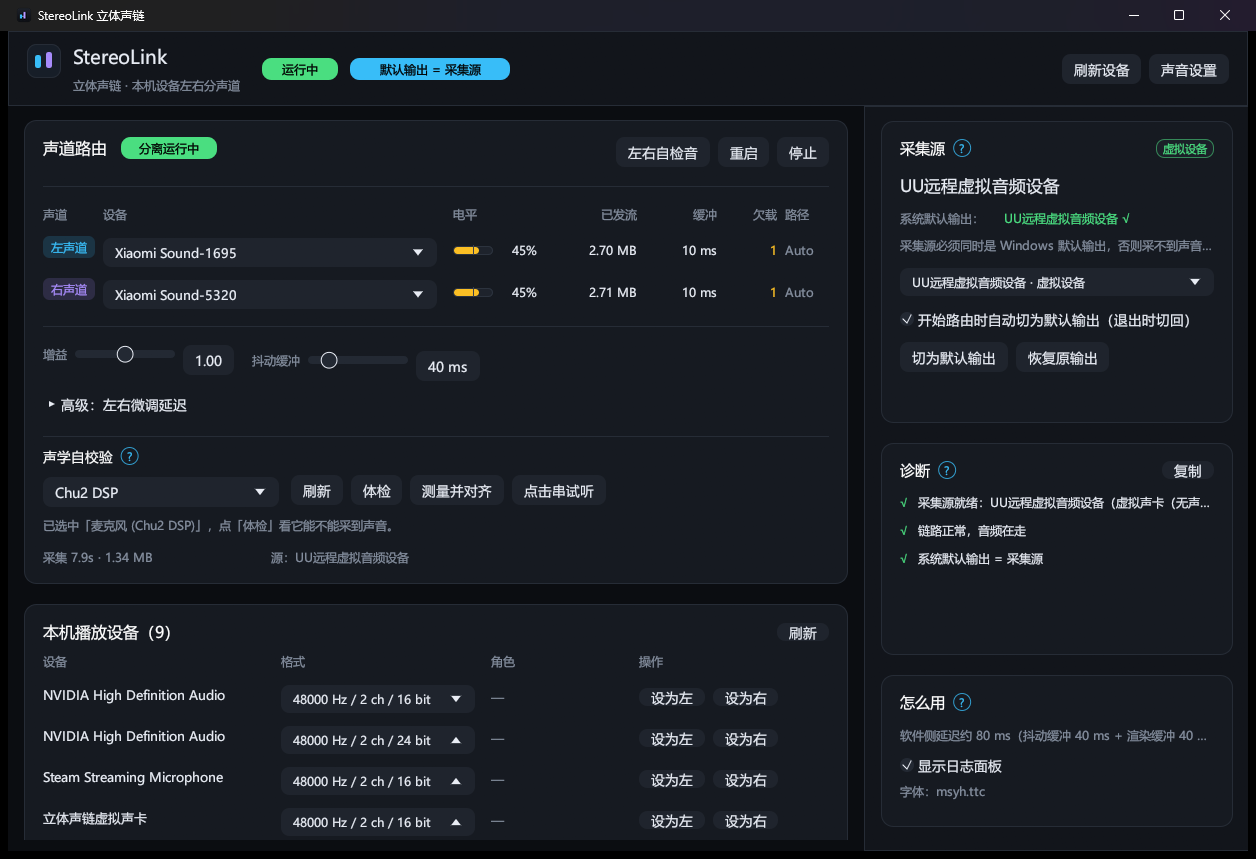
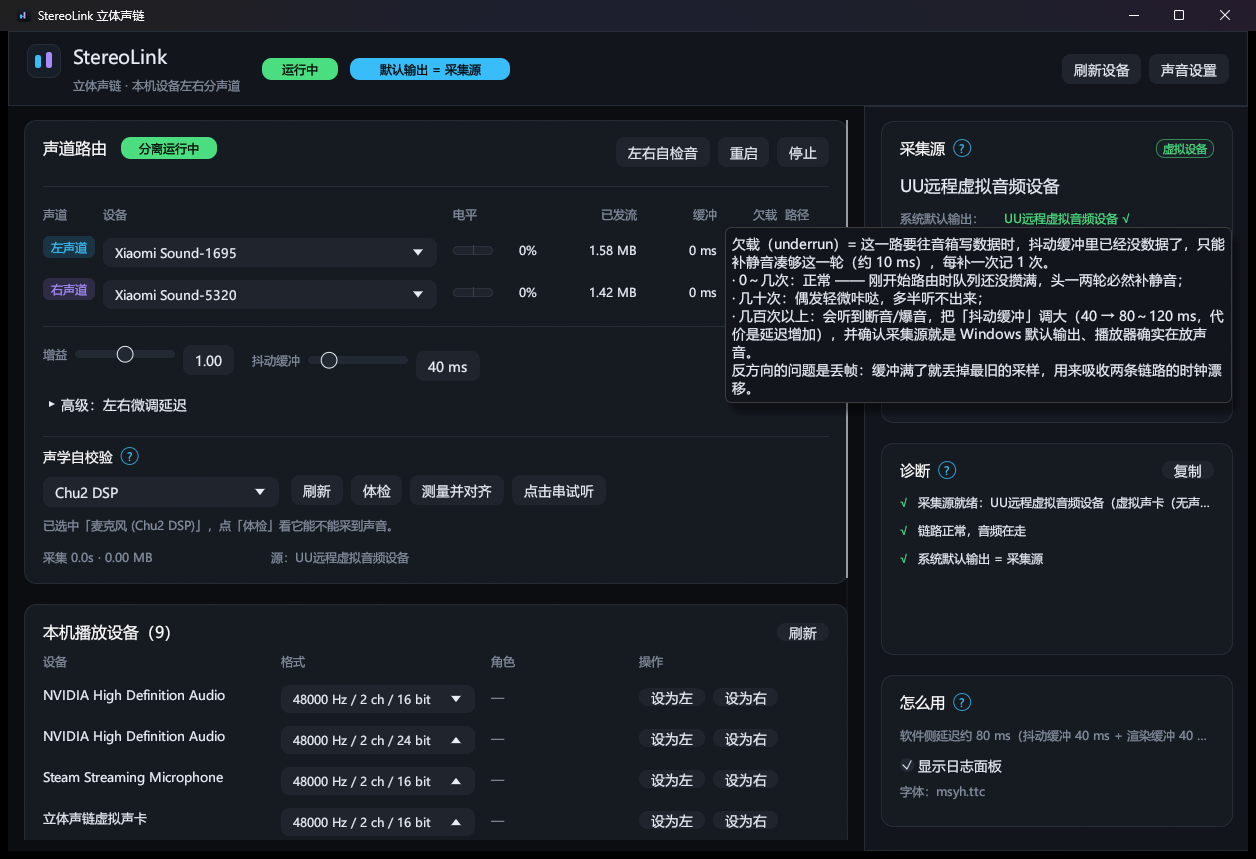
feat(gui): 「欠载」表头与数值加悬停说明（定义、0~几次正常、几百次要调大抖动缓冲、与丢帧的区别）

Changed region(s): [[0.5589, 0.2724, 0.9936, 0.454], [0.4658, 0.3329, 0.4968, 0.3632], [0.4658, 0.2724, 0.4968, 0.3027]]

diff --git a/crates/stereo-link/src/app.rs b/crates/stereo-link/src/app.rs
@@ -184,6 +184,16 @@ const ROUTE_ROW_H: f32 = 28.0;
 /// 诊断卡固定槽位数：条数变化不改变卡片高度。
 const DIAG_SLOTS: usize = 5;
 
+/// 「欠载」的悬停说明：表头与数据行共用同一段话。
+const UNDERRUN_HELP: &str = "\
+欠载（underrun）= 这一路要往音箱写数据时，抖动缓冲里已经没数据了，\
+只能补静音凑够这一轮（约 10 ms），每补一次记 1 次。\n\
+· 0～几次：正常 —— 刚开始路由时队列还没攒满，头一两轮必然补静音；\n\
+· 几十次：偶发轻微咔哒，多半听不出来；\n\
+· 几百次以上：会听到断音/爆音，把「抖动缓冲」调大（40 → 80～120 ms，代价是延迟增加），\
+并确认采集源就是 Windows 默认输出、播放器确实在放声音。\n\
+反方向的问题是丢帧：缓冲满了就丢掉最旧的采样，用来吸收两条链路的时钟漂移。";
+
 /// 设备列吃掉剩余宽度：同一窗口尺寸下恒定，不随数值变化。
 fn route_device_width(available: f32, spacing: f32) -> f32 {
     let fixed = ROUTE_COL_CH
@@ -1855,7 +1865,8 @@ impl StereoLinkApp {
                     text_cell(ui, ROUTE_COL_LEVEL, 18.0, "电平", header_font.clone(), MUTED, false);
                     text_cell(ui, ROUTE_COL_SENT, 18.0, "已发流", header_font.clone(), MUTED, true);
                     text_cell(ui, ROUTE_COL_BUF, 18.0, "缓冲", header_font.clone(), MUTED, true);
-                    text_cell(ui, ROUTE_COL_UNDER, 18.0, "欠载", header_font.clone(), MUTED, true);
+                    text_cell(ui, ROUTE_COL_UNDER, 18.0, "欠载", header_font.clone(), MUTED, true)
+                        .on_hover_text(UNDERRUN_HELP);
                     text_cell(ui, ROUTE_COL_PATH, 18.0, "路径", header_font, MUTED, false);
                 });
             }
@@ -2206,6 +2217,18 @@ impl StereoLinkApp {
                 .as_ref()
                 .map(|route| format!("{:>4}", route.underruns))
                 .unwrap_or_else(|| "   —".to_string());
+            let under_tip = match route.as_ref() {
+                Some(route) if route.underruns > 0 => format!(
+                    "这一路已欠载 {} 次。\n{}",
+                    route.underruns,
+                    if route.underruns > 200 {
+                        "次数偏多：建议把「抖动缓冲」调到 80～120 ms（代价是延迟增加）。"
+                    } else {
+                        "少量欠载（尤其刚开始路由时的头几次）属正常。"
+                    }
+                ),
+                _ => UNDERRUN_HELP.to_string(),
+            };
             text_cell(
                 ui,
                 ROUTE_COL_UNDER,
@@ -2214,7 +2237,8 @@ impl StereoLinkApp {
                 FontId::monospace(12.0),
                 if underruns > 0 { WARN } else { TEXT },
                 true,
-            );
+            )
+            .on_hover_text(under_tip);
 
             let (path_short, path_tip) = match route
                 .as_ref()

diff --git a/README.md b/README.md
@@ -220,16 +220,6 @@ cargo run -p stereo-audio --example route_demo -- --left "Xiaomi Sound-1695" --r
 自研虚拟声卡驱动的构建、自签、安装与回滚命令见
 [`docs/virtual-soundcard.md`](docs/virtual-soundcard.md) 的「构建与自签 / 安装 / 卸载」三节。
 
-## 历史
-
-本仓库早期是 `miplay-bridge`：把系统声音通过小米妙播云 API 投放到小米音箱（含 AirPlay 2 发送端）。
-妙播云路线 PC 侧延迟约 0.25 s、但音箱固件内部缓冲接近 1 s，压不下来；AirPlay 2 在本机设备上
-能建流但渲染静音，故都已被移除。
-
-虚拟声卡也经历了两代：早期「借用 Steam Streaming Speakers 改名」，后来换成自研驱动
-StereoLinkVad。现在采集源已经泛化为**任意一个不会被听见的本机输出端点**（零安装优先，UU远程
-兜底），自研虚拟声卡退为可选的高级路径；面板的「虚拟声卡改名」功能已删除（改名只影响显示名，
-对采集没有帮助）。现在产品只做「本机音频设备左右分声道」这一条纯用户态路线。
 
 ## 许可证
 
